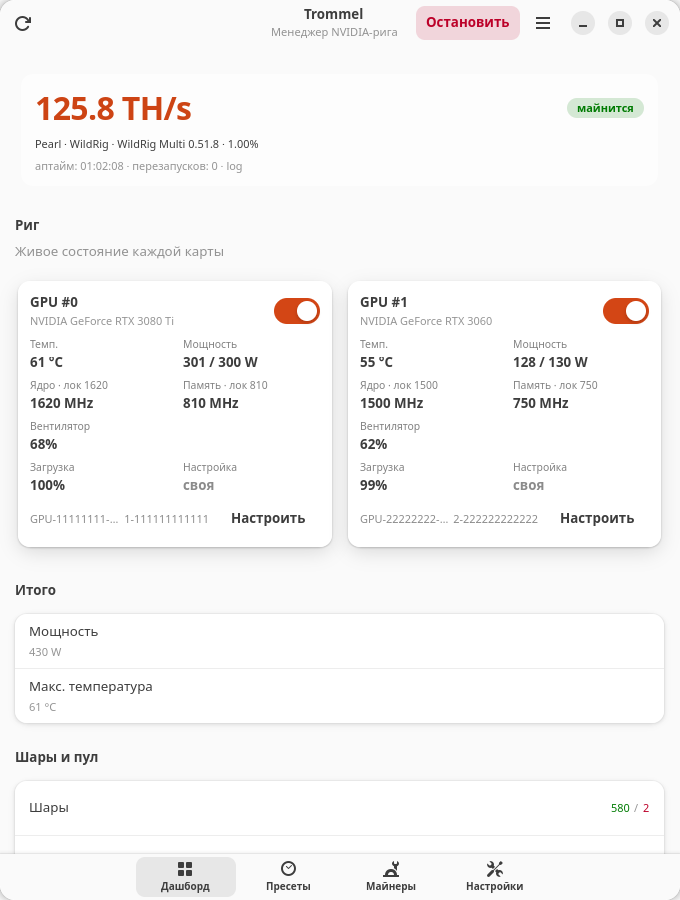
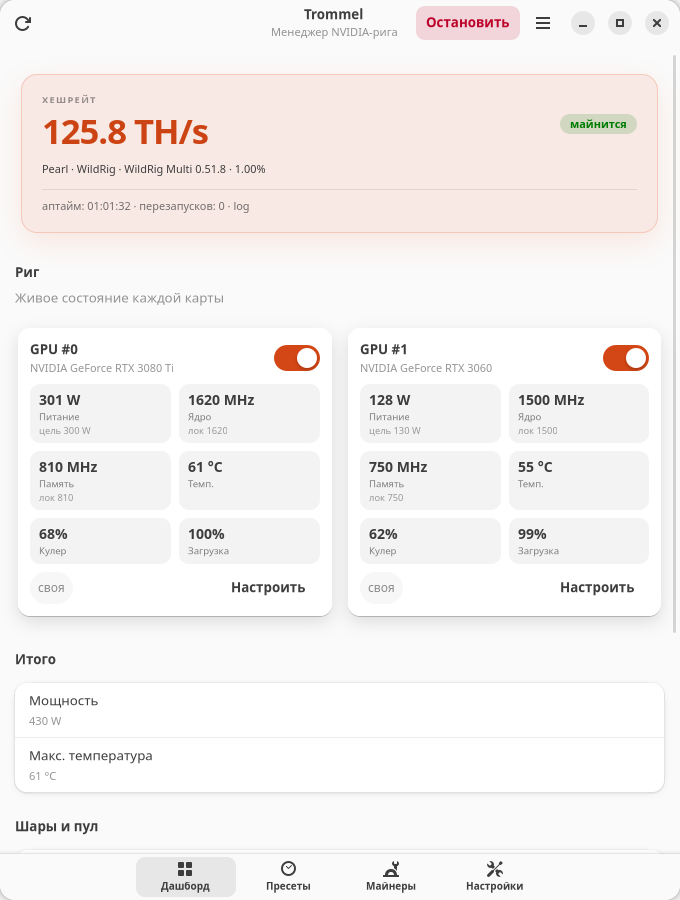
feat(ui): polish the dashboard hero
Give the hashrate block a clear hierarchy: a letter-spaced HASHRATE
caption, a larger accent value, an accent-tinted card with a soft shadow,
and a separator before the quieter uptime/restarts row. Long preset and meta
lines ellipsize instead of stretching the window.

Regenerate the documentation screenshots; they now show the hero, the value-
bubble GPU cards, the single-GPU wide layout fixture and the tune dialog's
overflow menu.

diff --git a/crates/cli/src/gui.rs b/crates/cli/src/gui.rs
@@ -302,15 +302,31 @@ fn install_css() {
             padding: 16px;
         }
         .trommel-hero {
-            background-color: alpha(@card_bg_color, 0.55);
-            border-radius: 12px;
-            padding: 12px 14px;
+            background-color: alpha(@accent_bg_color, 0.10);
+            border: 1px solid alpha(@accent_bg_color, 0.22);
+            border-radius: 16px;
+            padding: 18px 20px;
+            box-shadow: 0 10px 28px alpha(@accent_bg_color, 0.12);
+        }
+        .trommel-hero-caption {
+            font-size: 0.7em;
+            font-weight: 700;
+            letter-spacing: 0.14em;
+            opacity: 0.55;
         }
         .trommel-hero-hashrate {
-            font-size: 2.4em;
+            font-size: 2.6em;
             font-weight: 800;
-            letter-spacing: -0.02em;
+            letter-spacing: -0.03em;
         }
+        .trommel-hero-line { font-weight: 500; }
+        .trommel-hero-rule {
+            background-color: alpha(@card_fg_color, 0.12);
+            min-height: 1px;
+            margin-top: 6px;
+            margin-bottom: 2px;
+        }
+        .trommel-hero-meta { opacity: 0.72; }
         .trommel-gpu-title { font-weight: 700; }
         .trommel-gpu-stat {
             background-color: alpha(@card_fg_color, 0.06);
@@ -582,17 +598,34 @@ fn build_ui(app: &adw::Application) {
     hero.set_margin_start(6);
     hero.set_margin_end(6);
     let hero_top = gtk::Box::new(gtk::Orientation::Horizontal, 8);
+    let hero_left = gtk::Box::new(gtk::Orientation::Vertical, 0);
+    hero_left.set_hexpand(true);
+    let hero_caption = label(
+        &tr("HASHRATE", "ХЕШРЕЙТ"),
+        &["caption", "trommel-hero-caption"],
+    );
     let hero_hashrate = label("—", &["trommel-hero-hashrate", "numeric", "dim-label"]);
-    hero_hashrate.set_hexpand(true);
+    hero_left.append(&hero_caption);
+    hero_left.append(&hero_hashrate);
     let pill = label(
         &tr("stopped", "остановлен"),
         &["caption", "trommel-pill", "trommel-pill-stopped"],
     );
     pill.set_valign(gtk::Align::Center);
-    hero_top.append(&hero_hashrate);
+    hero_top.append(&hero_left);
     hero_top.append(&pill);
-    let hero_line = label(&tr("No preset", "Нет пресета"), &["caption"]);
-    let hero_meta = label("", &["caption", "dim-label", "numeric"]);
+    let hero_line = label(
+        &tr("No preset", "Нет пресета"),
+        &["caption", "trommel-hero-line"],
+    );
+    let hero_rule = gtk::Separator::new(gtk::Orientation::Horizontal);
+    hero_rule.add_css_class("trommel-hero-rule");
+    let hero_meta = label(
+        "",
+        &["caption", "dim-label", "numeric", "trommel-hero-meta"],
+    );
+    hero_line.set_ellipsize(gtk::pango::EllipsizeMode::End);
+    hero_meta.set_ellipsize(gtk::pango::EllipsizeMode::End);
     let quick_button = gtk::Button::builder()
         .label(tr("Quick setup", "Быстрая настройка"))
         .css_classes(["suggested-action", "pill"])
@@ -601,6 +634,7 @@ fn build_ui(app: &adw::Application) {
     quick_button.set_visible(false);
     hero.append(&hero_top);
     hero.append(&hero_line);
+    hero.append(&hero_rule);
     hero.append(&hero_meta);
     hero.append(&quick_button);
     hero_group.add(&hero);

diff --git a/docs/design.ru.md b/docs/design.ru.md
@@ -71,12 +71,12 @@ libadwaita пропустить свой stylesheet и ломает отступ
 
 - Используйте штатные классы `title-*`, `heading`, `body`, `caption`,
   `numeric`, `dim-label`. Свои размеры есть только у хешрейта в hero-карточке
-  (`.trommel-hero-hashrate`, 2.4 em, вес 800), подписей метрик и чипов; больше
-  не добавляйте.
+  (`.trommel-hero-hashrate`, 2.6 em, вес 800), подписи hero-карточки, подписей
+  метрик и чипов; больше не добавляйте.
 - Цифры — табличные (`font-feature-settings: "tnum"`), чтобы живые значения не
   «прыгали».
 - Подписи — в предложении с заглавной буквы. Капс — только для короткого текста
-  статусной пилюли, если это уже переведённое существительное.
+  статусной пилюли и подписи hero-карточки.
 
 ### Карточки, пилюли и чипы
 
@@ -84,8 +84,10 @@ libadwaita пропустить свой stylesheet и ломает отступ
 
 | Класс | Назначение |
 | --- | --- |
-| `.trommel-hero` | Hero-карточка хешрейта (полупрозрачный фон, радиус 12 px) |
+| `.trommel-hero` | Hero-карточка хешрейта: акцентный фон, рамка 1 px, радиус 16 px |
+| `.trommel-hero-caption` | Мелкая подпись HASHRATE с разрядкой |
 | `.trommel-hero-hashrate` | Крупное значение хешрейта |
+| `.trommel-hero-line`, `.trommel-hero-rule`, `.trommel-hero-meta` | Строка пресета, разделитель и строка аптайма/перезапусков |
 | `.trommel-gpu-card` | Карточка GPU на дашборде: радиус 12 px, фон карточки, мягкая тень |
 | `.trommel-gpu-card-wide` | Карточка единственного GPU: увеличенные отступы, на всю ширину дашборда |
 | `.trommel-gpu-stat` | «Пузырь» живого значения в карточке GPU: лёгкий фон, радиус 10 px |
@@ -166,9 +168,12 @@ libadwaita пропустить свой stylesheet и ломает отступ
 
 ### Дашборд
 
-- Hero-карточка: крупный хешрейт, статусная пилюля (`майнится` / `вручную` /
-  `остановлен` / `нет связи`), строка «пресет · майнер · версия · итоговая
-  комиссия» и метаданные с аптаймом, перезапусками и источником данных майнера.
+- Hero-карточка: мелкая подпись HASHRATE с разрядкой, крупное значение,
+  статусная пилюля (`майнится` / `вручную` / `остановлен` / `нет связи`), строка
+  «пресет · майнер · версия · итоговая комиссия», разделитель и метаданные с
+  аптаймом, перезапусками и источником данных майнера. Карточка с акцентным
+  фоном и мягкой тенью; значение окрашено акцентом, только когда хешрейт
+  известен.
 - Карточки GPU: название и индекс, переключатель включения карты в активный
   профиль, шесть «пузырей» со значениями (питание, ядро, память, температура,
   вентилятор, загрузка; цель/лок — мелкая подсказка, краснеет при расхождении с

diff --git a/docs/design.md b/docs/design.md
@@ -69,12 +69,12 @@ compact card per GPU precisely so Settings does not force a wide window.
 
 - Use the built-in `title-*`, `heading`, `body`, `caption`, `numeric` and
   `dim-label` classes. The only custom sizes are the hero hashrate
-  (`.trommel-hero-hashrate`, 2.4 em, weight 800), metric labels and chips; do not
-  add more.
+  (`.trommel-hero-hashrate`, 2.6 em, weight 800), the hero caption, metric labels
+  and chips; do not add more.
 - Numbers use tabular figures (`font-feature-settings: "tnum"`) so live values
   do not jitter.
-- Labels are sentence case. All-caps only for short status pill text if it is
-  already a translated noun.
+- Labels are sentence case. All-caps only for short status pill text and the
+  hero caption.
 
 ### Cards, pills and chips
 
@@ -82,8 +82,10 @@ Custom CSS lives in `install_css()`:
 
 | Class | Use |
 | --- | --- |
-| `.trommel-hero` | Dashboard hashrate hero card (translucent card background, 12 px radius) |
+| `.trommel-hero` | Dashboard hashrate hero card: accent tint, 1 px accent border, 16 px radius |
+| `.trommel-hero-caption` | Small letter-spaced HASHRATE caption |
 | `.trommel-hero-hashrate` | Large hashrate value |
+| `.trommel-hero-line`, `.trommel-hero-rule`, `.trommel-hero-meta` | Preset line, separator and uptime/restarts row |
 | `.trommel-gpu-card` | Dashboard GPU card: rounded 12 px, card background, soft shadow |
 | `.trommel-gpu-card-wide` | Single-GPU card: wider padding, fills the dashboard row |
 | `.trommel-gpu-stat` | Live-value bubble inside a dashboard GPU card: tinted, 10 px radius |
@@ -165,9 +167,11 @@ Every coloured value has a word next to it (“installed”, “not installed”
 
 ### Dashboard
 
-- Hero card: large hashrate, status pill (`mining` / `external` / `stopped` /
-  `offline`), a line with preset · miner · version · total fee, and a metadata
-  line with uptime, restarts and the miner data source.
+- Hero card: a small letter-spaced HASHRATE caption, the large value, status
+  pill (`mining` / `external` / `stopped` / `offline`), a line with preset ·
+  miner · version · total fee, a separator, and a metadata line with uptime,
+  restarts and the miner data source. The card is accent-tinted with a soft
+  shadow; the value uses the accent colour only while a hashrate is known.
 - GPU cards: title (name + index), a switch that includes the card in the
   active profile, six value bubbles (power, core, memory, temperature, fan,
   load; the configured target/lock is a small hint and turns hot when the live

diff --git a/CHANGELOG.md b/CHANGELOG.md
@@ -52,6 +52,8 @@ Changelog; versions use SemVer.
   include switch remain the controls. The duplicate *Detected GPUs* group left
   Settings; per-card edits live in **Tune**. The tune dialog's **Recommended** /
   **Profile default** actions moved into a **⋯** menu.
+- The dashboard hero is accent-tinted with a soft shadow, a small HASHRATE
+  caption, a larger value, a separator and a quieter uptime/restarts row.
 - New D-Bus `OCReport()` / `RestoreOC(mode)`, CLI `trommel oc report|restore`,
   MCP `trommel_oc` / `trommel_restore_oc`, and the under-load clock check.
 - Documentation was restructured by audience: a new index, an architecture and
